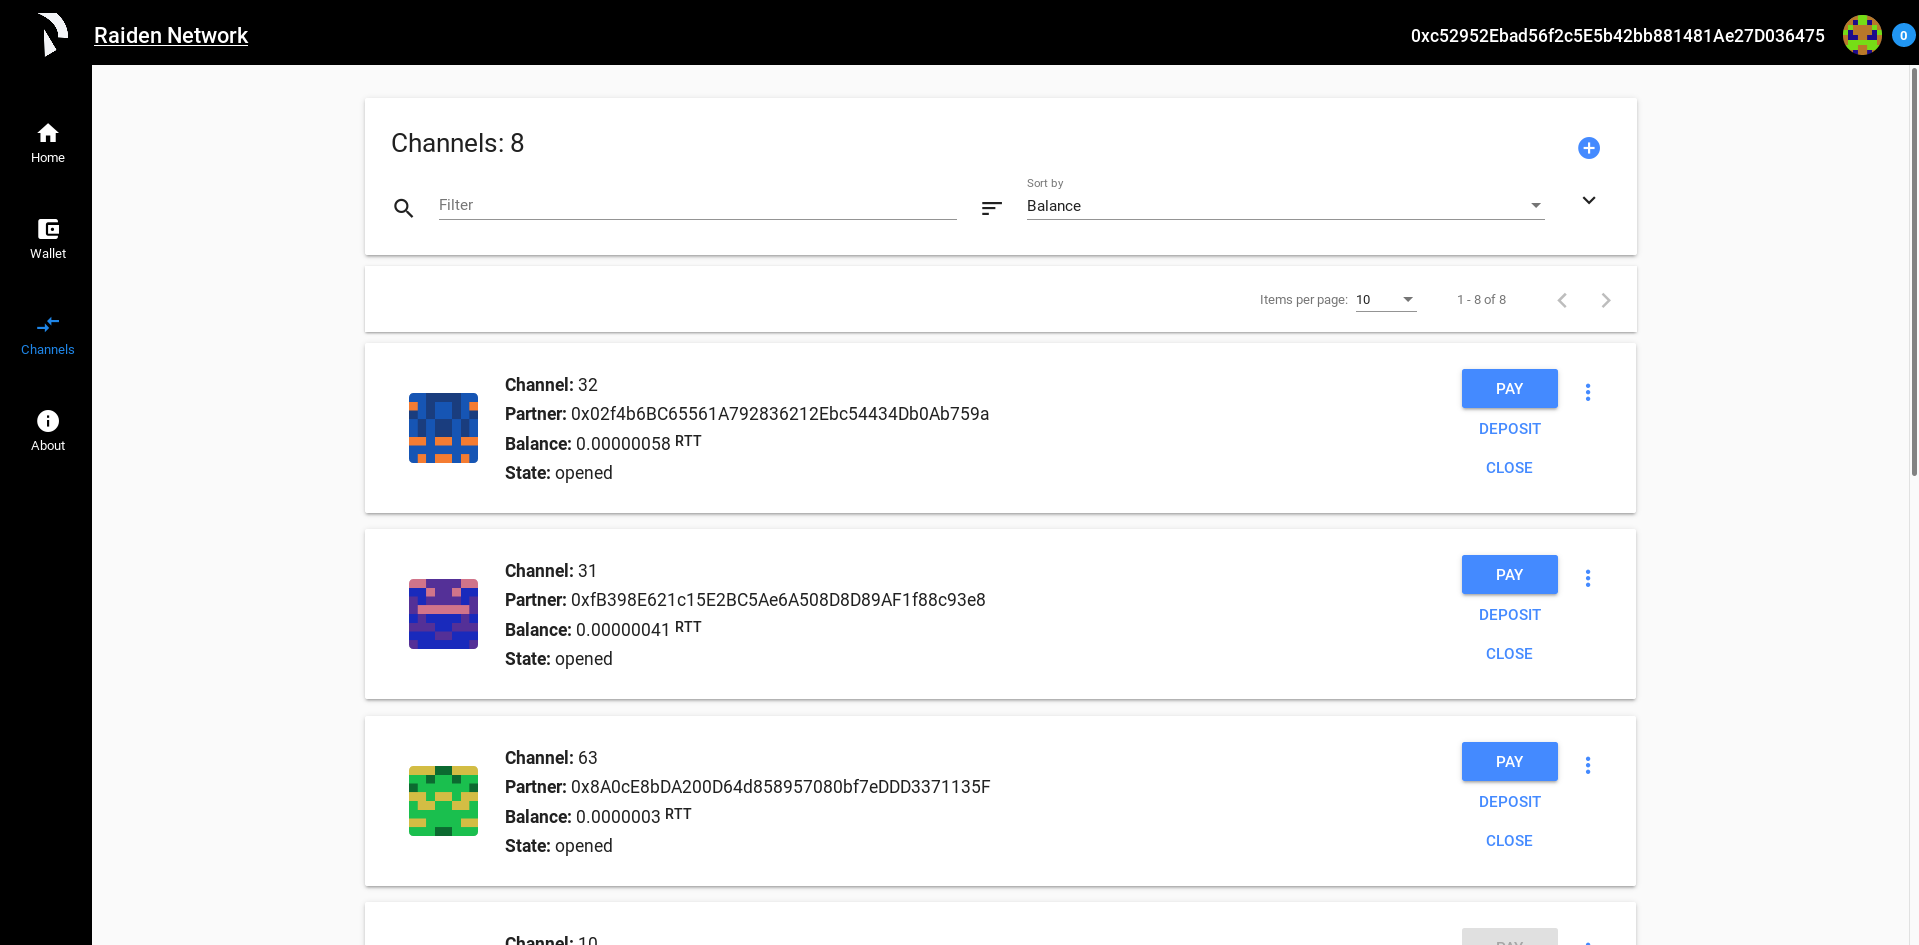
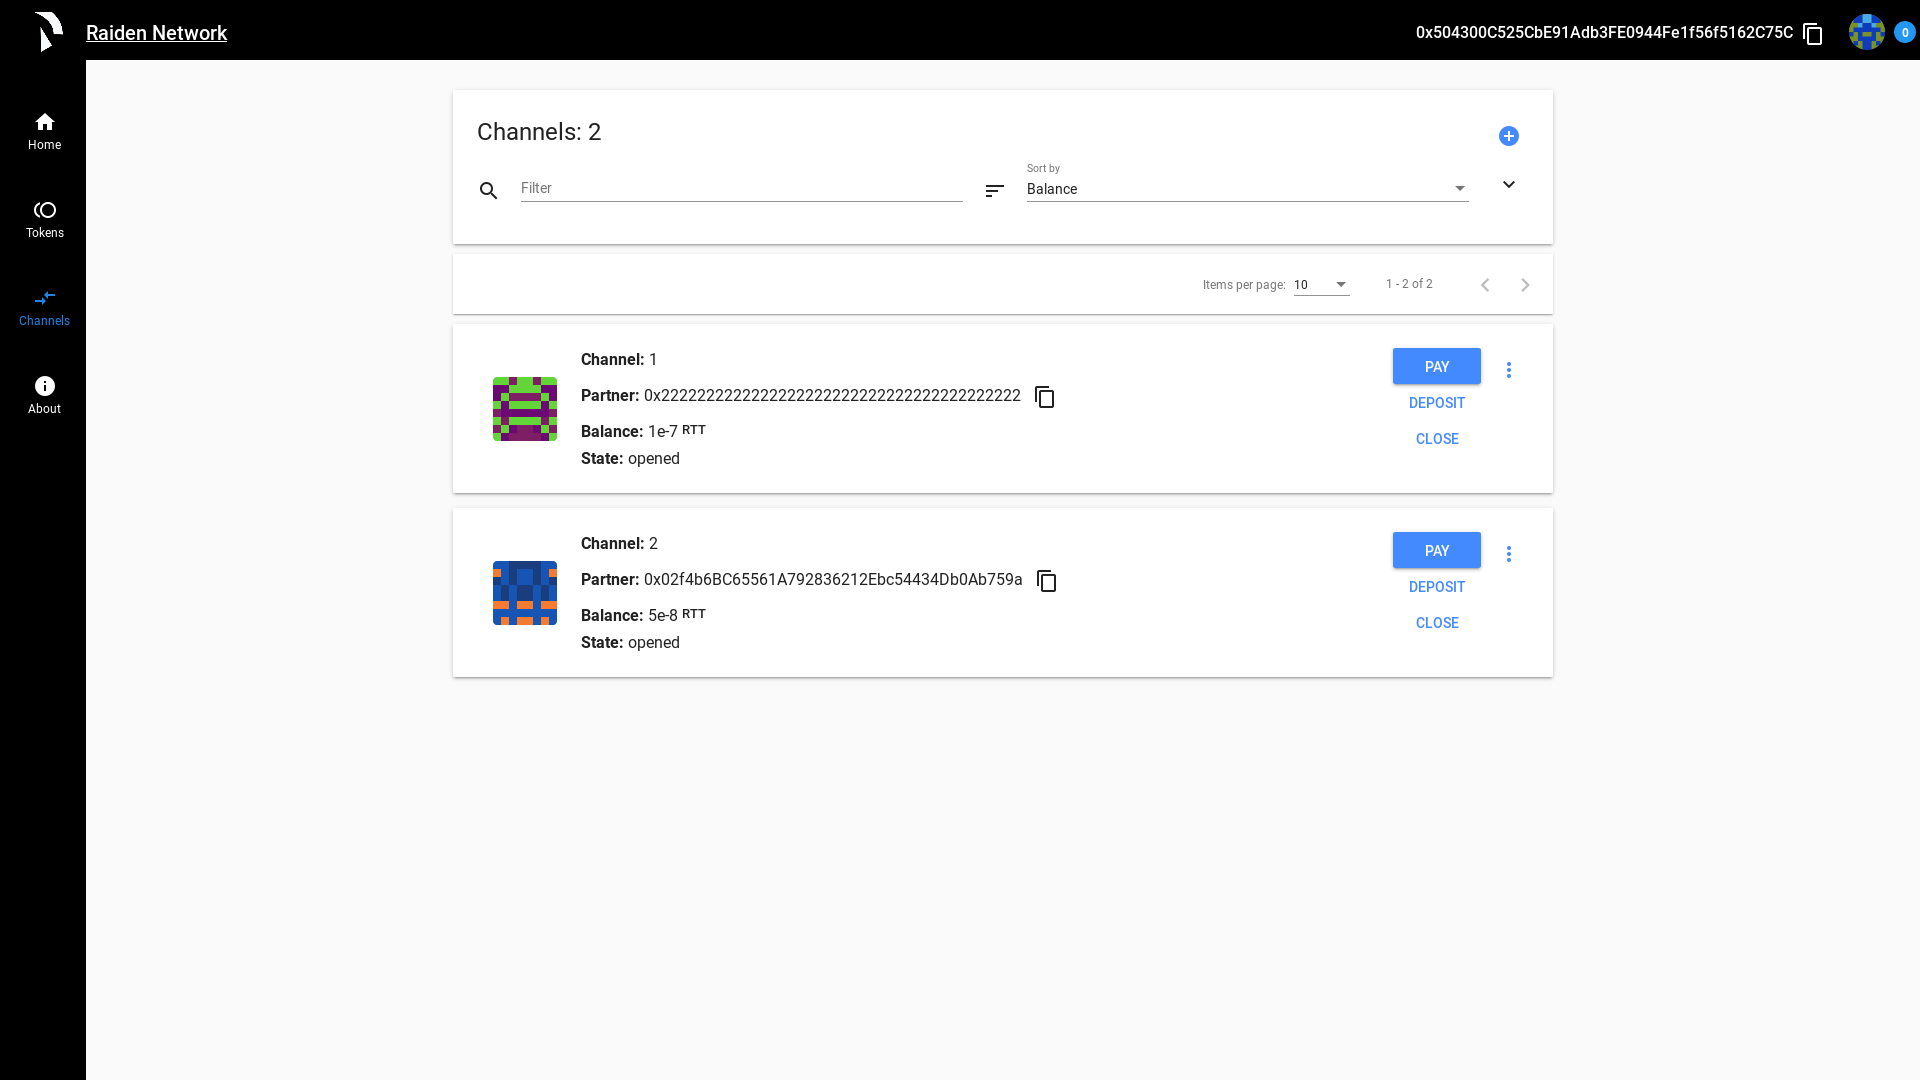
Update webui documentation and screenshot

diff --git a/docs/webui_tutorial.rst b/docs/webui_tutorial.rst
@@ -14,9 +14,6 @@ Running the web application
 There are a few simple steps that needs to be carried out in order to run the Raiden web application. Firstly, Raiden needs to be installed. See :ref:`install instructions <installation>` for this.
 
 
-.. NOTE::
-      If an INFURA node is used as an ethereum rpc provider then the WebUI can't function.
-
 The only dependency needed to run the web application is `node.js <https://docs.npmjs.com/getting-started/installing-node>`_.
 
 Once Raiden and node.js has been installed, it is quite easy to install and start the web application. From the root of the Raiden directory do::
@@ -46,11 +43,15 @@ Below is a screenshot of the landing page.
 One last thing that might be interesting to note is that the address of the running Raiden node is always displayed in the top bar.
 
 
-Wallet
+Tokens
 ----------
-The ``Wallet`` view provides information about the registered token networks. Furthermore it also allows for automatically joining an existing token network along with registering a new token network.
+The ``Tokens`` view provides information about the registered token networks. Furthermore it also allows for automatically joining an existing token network along with registering a new token network.
 
 The first thing to notice in this view is the list of tokens for which a token network exists. All tokens that have been registered in Raiden will show up in this list. If the user knows the name or the address of a token, it's very easy to search for it using the ``Filter`` input. If the token the user searches for does not show up, it most likely means that it is not yet registered. Registering can however be done by pressing the ``Circular Plus`` button and provide the token address. For each token in the list of tokens some information is provided. This information includes the ``Symbol`` of the token, the ``Address`` of the token, the ``Name`` of the token and the user's ``Balance`` of a specific token. It's easy to sort the tokens, so that only tokens that a user actually holds, show up in the beginning of the list. This is done simply by selecting an entry on the ``Sort by`` dropdown menu. You can change the sorting order by pressing the arrow on the right side of the ``Sort by`` dropdown menu.
+
+.. NOTE::
+      The ``Circular Plus`` button for token registration will not be available 
+      for the `Red Eyes` release.
 
 You can access the ``Network Events`` by selecting the ``View network events`` option of the overflow menu.
 
@@ -64,10 +65,10 @@ The overflow menu provides the ``View token events`` option. This will simply re
 
 In further releases it will also be possible to perform token swaps with the ``Swap Tokens`` button. This function is not part of the Red Eyes release.
 
-.. thumbnail:: images/raiden_webui_wallet_page_screenshot.png
+.. thumbnail:: images/raiden_webui_tokens_page_screenshot.png
     :alt: Raiden web app tokens page
 
-Above is a screenshot of the ``Wallet`` view with some registered tokens.
+Above is a screenshot of the ``Tokens`` view with some registered tokens.
 
 
 Channels
